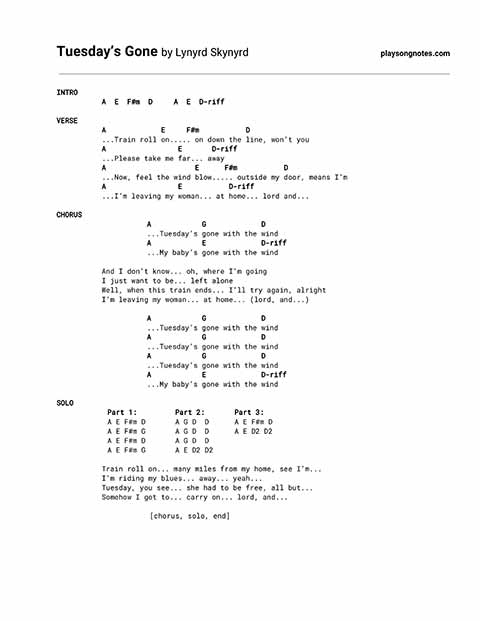
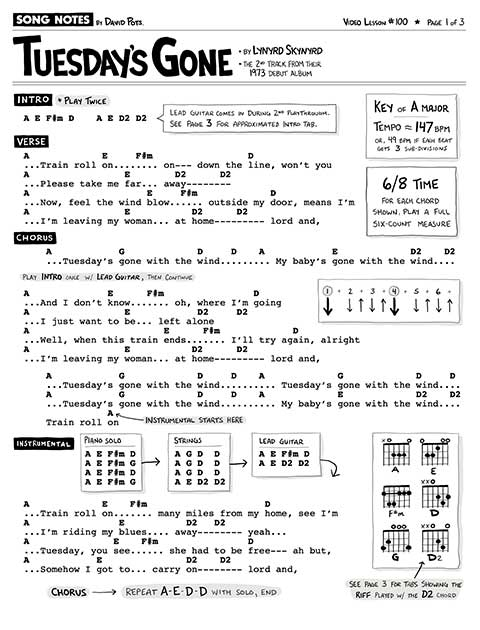
Adds tuesdays gone sheet music link

Changed region(s): [[0.0312, 0.0, 0.9688, 0.9485]]

diff --git a/_lessons/170 [Johnny Cash] I've Been Everywhere.md b/_lessons/170 [Johnny Cash] I've Been Everywhere.md
@@ -36,162 +36,3 @@ Video timestamps:
 - 8:40 How to play the intro
 - 10:38 Riffs and fills
 - 15:11 Parting wisdom
-
-## Lyrics w/ chords
-
-    INTRO (played freely)
-
-              E                        E
-        I was toting my pack along the dusty Winnemucca road
-              E                       E
-        When along came a semi with a high and canvas covered load
-                A7                              A7
-        If your going to Winnemucca, Mack, with me you can ride
-                 E                               E
-        And so I climbed into the cab and then I settled down inside
-           B7                              (C7)             (B7)
-        He asked me if I'd seen a road with so much dust and sand
-                     E (let ring)                                      (walk up)
-        And I said, "Listen... I've traveled every road in this here land"
-
-    CHORUS
-
-            E                            E
-            I've been everywhere, man... I've been everywhere, man
-            A7                                    E
-            Crossed the deserts bare, man... I've breathed the mountain air, man
-            B7                                B7             E
-            Travel, I've had my share, man... I've been everywhere
-
-    VERSE
-                     E
-        I've been to Reno, Chicago, Fargo, Minnesota
-        E
-        Buffalo, Toronto, Winslow, Sarasota
-        A7
-        Wichita, Tulsa, Ottawa, Oklahoma
-        E
-        Tampa, Panama, Mattawa, La Paloma
-        B7
-        Bangor, Baltimore, Salvador, Amarillo
-        E
-        Tocopilla, Pocotello, Amperdello, I'm a killer
-
-            [chorus]
-                     E
-        I've been to Boston, Charleston, Dayton, Louisiana
-        E
-        Washington, Houston, Kingston, Texarkana
-        A7
-        Monterey, Fairaday, Santa Fe, Tollaperson
-        E
-        Glen Rock, Black Rock, Little Rock, Oskaloussa
-        B7
-        Tennessee, Tinnesay, Chickapee, Spirit Lake
-        E
-        Grand Lake, Devil's Lake, Crater Lake, for Pete's sake
-
-            [chorus]
-
-                     E
-        I've been to Louisville, Nashville, Knoxville, Omerback
-        E
-        Shereville, Jacksonville, Waterville, Costa Rock
-        A7
-        Richfield, Springfield, Bakersfield, Shreveport
-        E
-        Hakensack, Cadallic, Fond do Lac, Davenport
-        B7
-        Idaho, Jellico, Argentina, Diamondtina
-        E
-        Pasadena, Catalina, see what I mean
-
-            [chorus]
-                     E
-        I've been to Pittsburgh, Parkersburg, Gravelburg, Colorado
-        E
-        Ellisburg, Rexburg, Vicksburg, El Dorado
-        A7
-        Larimore, Adimore, Habastock, Chadanocka
-        E
-        Shasta, Nebraska, Alaska, Opalacka
-        B7
-        Baraboo, Waterloo, Kalamazoo, Kansas City
-        E
-        Sioux City, Cedar City, Dodge City, what a pity
-
-            [chorus, end]
-
-## Chords needed
-
-Here's how to play the chords needed in this song. If you prefer, you can substitute a normal "A" chord instead of the "A7" - but I find the A7 captures the bluesy sound of things quite nicely.
-
-    E –––0––––0––––2–––
-    B –––0––––2––––0–––
-    G –––1––––0––––2–––
-    D –––2––––2––––1–––
-    A –––2––––0––––2–––
-    E –––0–––––––––––––
-         E    A7   B7
-
-## Strumming pattern
-
-Simple strum - start by strumming only on the "1" count of each 4-beat measure. This is a great way to start learning the song, especially if you want to play along but want to keep the strumming as simple as possible.
-
-    1 + 2 + 3 + 4 +
-    D
-    >
-
-Intermediate strum - strum on each of the 4 counts, but put your accents on the "2" and "4" counts. This creates a nice back-beat that is well suited to much of Johnny Cash's musical sound.
-
-    1 + 2 + 3 + 4 +
-    D   D   D   D
-        >       >
-
-Full strum - add a "down up down up" on the back half each each measure. This requires quite a bit of motion (and can become tiring!) but creates a very nice driving sound, if you can manage it.
-
-    1 + 2 + 3 + 4 +
-    D   D   D U D U
-        >       >
-
-## Chord progressions
-
-While this song has distinct verse and chorus sections, they both use the same chords in the same order. There's only one minor difference between the two, which is the chorus stays on "B7" for one measure more than the verse does. For each chord named below, play one measure (4 counts). For each slash ("/"), repeat the previous chord for one measure (4 counts).
-
-Chorus:
-
-    "I've been everywhere, man..."
-
-    E  /  /  /  A7  /  E  /  B7  /  /  E  /
-
-Verse:
-
-    "I've been to Reno, Chicago, Fargo, Minnesota..."
-
-    E  /  /  /  A7  /  E  /  B7  /  E  /
-
-## Riffs and licks
-
-Here are a few fun fills you can insert into the song, as demonstrated in my video lesson. These are nice ways to occasionally mix things up while you're otherwise strumming along. Note, both of these fills begin and end on an E-major chord.
-
-Walk up (heard at the end of the intro):
-
-    E –––0–––|–––––––––––––––0––––        E –––0–––|–––––––––––––––0––––
-    B –––0–––|–––––––––––––––0––––        B –––0–––|–––––––––––––––0––––
-    G –––1–––|–––––––––––––––1––––        G –––1–––|–––––––––––––––1––––
-    D –––2–––|–––––––––1–––––2––––   or   D –––2–––|–––––––––––––––2––––
-    A –––2–––|–––2––4––––––––2––––        A –––2–––|–––2––4––6–––––2––––
-    E –––0–––|––––––––––––0––0––––        E –––0–––|––––––––––––0––0––––
-
-Walk down (heard at the end of the chorus):
-
-    E –––0–––|––––––––––––––––––0–––
-    B –––0–––|––––––––––––––––––0–––
-    G –––1–––|––––––––––––––––––1–––
-    D –––2–––|––––––––––––––––––2–––
-    A –––2–––|–––2––0–––––––––––2–––
-    E –––0–––|–––––––––3––2––0––0–––
-
-## Good luck!
-
-Let me know if you have questions. I hope this was helpful. Be sure to check out my other Johnny Cash lessons, I have a bunch!

diff --git a/backlog.md b/backlog.md
@@ -18,6 +18,7 @@ permalink: /backlog/
 
 Sheet music for the following songs are all available for purchase at Musicnotes.com. Each arrangement is officially licensed & legal, and also uses my latest sheet music formatting.
 
+    Feb 1  - Tuesday's Gone
     Jan 18 - Wildflowers
     Jan 11 - If I Had a Boat
     Jan 4  - The Wind
@@ -47,12 +48,11 @@ Sheet music for the following songs are all available for purchase at Musicnotes
 <h3>6+ requests:</h3>
 
     Stairway to Heaven          XXXXXXXXXXXXXXXXXXXXX
-    Tuesday's Gone              XXXXXXXXXXX
     Me and Bobby McGee •        XXXXXXXXXX
     Like a Rolling Stone        XXXXXXXXX
     Lola                        XXXXXXXXX
+    Sweet Child o Mine          XXXXXXXXX
     Creep                       XXXXXXXX
-    Sweet Child o Mine          XXXXXXXX
     A Million Dreams •          XXXXXXX
     Feeling Whitney             XXXXXXX
     California Dreaming         XXXXXX
@@ -70,6 +70,7 @@ Sheet music for the following songs are all available for purchase at Musicnotes
     Highwayman •                XXXXX
     I've Been Everywhere        XXXX
     LA Freeway                  XXX
+    Let Him Roll                XXXX
     Let It Go                   XXX
     Light On •                  XXX
     Lookin' Out My Backdoor     XXX
@@ -81,7 +82,7 @@ Sheet music for the following songs are all available for purchase at Musicnotes
     Say It Ain't So             XXXX
     Surf Rider                  XXXX
     Under the Bridge •          XXXXX
-    Walk Right In •             XXX
+    Walk Right In •             XXXX
     We Are the Champions •      XXXX
     When the Man Comes Around   XXXX
     Whitehouse Road             XXXXX
@@ -99,7 +100,6 @@ Sheet music for the following songs are all available for purchase at Musicnotes
     Gone Till November          X
     High and Dry                X
     Honky Tonk Heroes           X
-    Let Him Roll                XX
     Let It Go                   X
     Manhattan Island Serenade   X
     Rivers of Babylon           X  

diff --git a/_lessons/100 [Lynyrd Skynyrd] Tuesdays Gone.md b/_lessons/100 [Lynyrd Skynyrd] Tuesdays Gone.md
@@ -13,8 +13,9 @@ hidden_tags: [tuesdays]
 redirect_from:
   - /songs/lynyrd-skynyrd-tuesdays-gone/
 #pdf_version: v1
-pdf_version: copyright
-pdf_numpages: 2
+pdf_version: musicnotes
+pdf_numpages: 3
+musicnotes_url: https://www.musicnotes.com/l/CRtMP
 patreon_lesson_available: true
 patreon_lesson_url: https://www.patreon.com/posts/21721986
 ---
